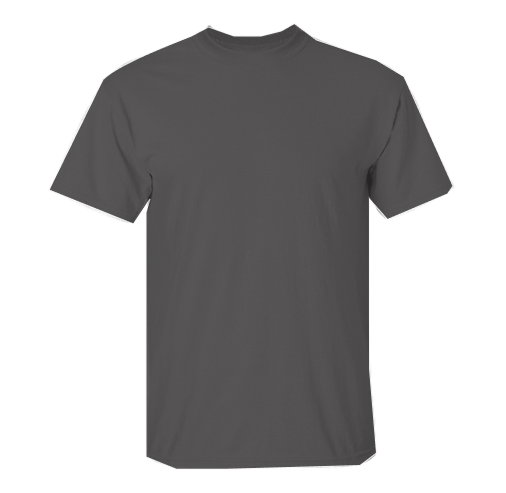
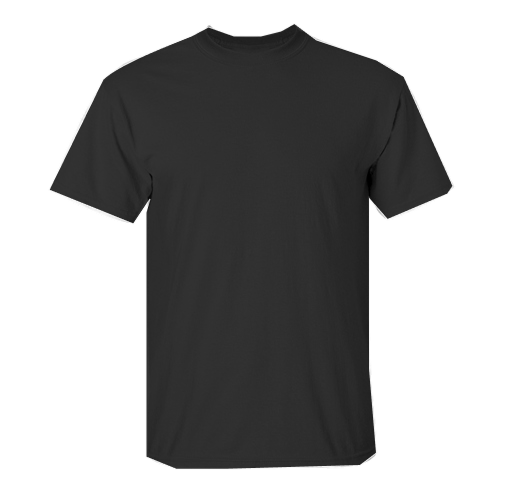
Update category slug mapping in DetailsPane, tshirt dropdown

diff --git a/src/components/DetailsPane.jsx b/src/components/DetailsPane.jsx
@@ -473,9 +473,9 @@ export default function DetailsPane() {
             setProductMeta({ categorySlug: e.target.value })
           }
         >
-          <option value="tshirts">T-Shirts</option>
-          <option value="hoodies">Hoodies</option>
-          <option value="kids">Kids</option>
+          {/* Make sure these slugs match Products → Categories in WP */}
+          <option value="tshirts">T-shirt</option>
+          <option value="tshirts">Graphic T-shirt</option>
         </select>
 
         {/* Art Type */}
